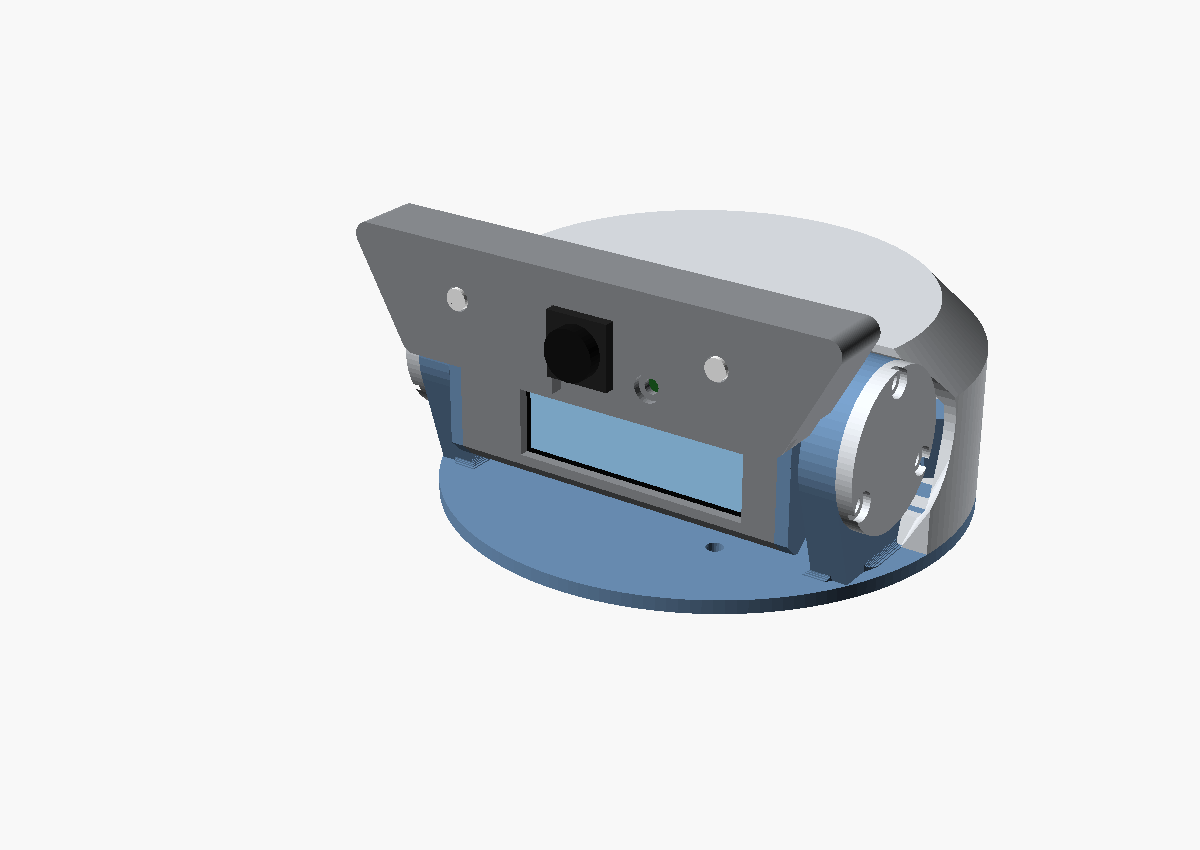
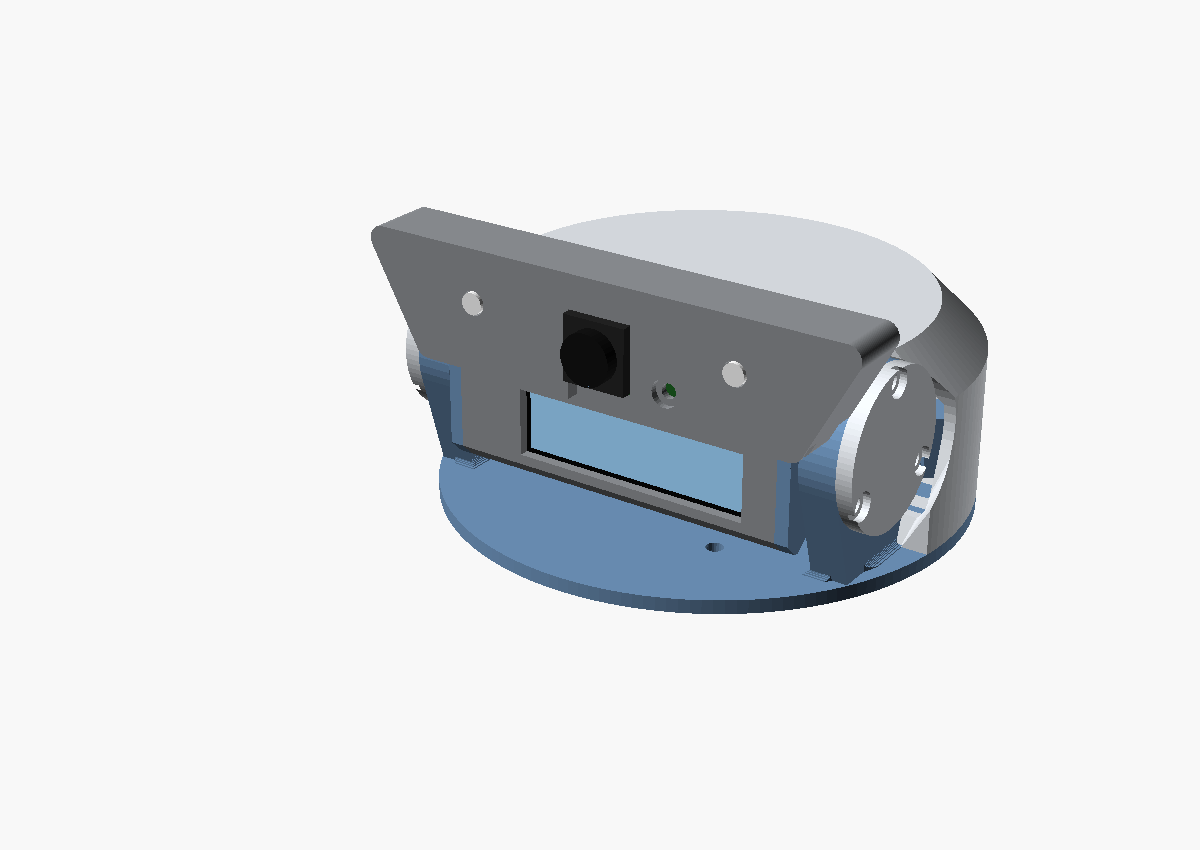
head_v5: printable one-piece head, lens centred on the OLED window; run book updated

diff --git a/hardware/cad/docs/build_photos/README.md b/hardware/cad/docs/build_photos/README.md
@@ -8,7 +8,7 @@ Renders (`NN_render_*.png`) come from `parts/base_v4.scad` (`part = "head_view"`
 
 ### Step 1: camera on the camframe ✅
 
-Part: `base_camframe_v4.3mf`. The webcam PCB (Logitech 210-002028-003) is fitted to the camframe: lens in its square pocket, glass eyes in the D3 and D6 seats,
+Part: `base_camframe_v4.3mf` (superseded by `base_head_v5.3mf`, see step 2). The webcam PCB (Logitech 210-002028-003) is fitted to the camframe: lens in its square pocket, glass eyes in the D3 and D6 seats,
 mic cans in their pockets. One side is held by an M2.5 x 12 bolt through the edge slot, the mic side is hot-glued.
 
 ![Camera board, rear](01_camera_board_rear.jpg)
@@ -21,8 +21,8 @@ mic cans in their pockets. One side is held by an M2.5 x 12 bolt through the edg
 
 ### Step 2: head: insert, OLED, camera ⏭
 
-**Parts (all in `out/`, already printed):** `base_head_v4.3mf` (the head: camera plate, two arms and axle stubs, one piece; there is no separate "plate" part) and `base_camframe_v4.3mf` (with the camera on it, step 1).
-`base_plate_v4.3mf` is only an old fit coupon (plate without arms): do not use it.
+**Part (in `out/`):** `base_head_v5.3mf` — the new one-piece head (camera frame, visor, flared sides, plate, arms and axle stubs). It replaces `base_head_v4.3mf` and `base_camframe_v4.3mf`; do not use those two or `base_plate_v4.3mf` (an old coupon).
+Print it front face down, with tree supports under the lower plate and arms. Not printed yet.
 **Hardware:** the camera on its camframe, the OLED (2.08", GME25664-65), 1 x M2.5 heat-set insert,
 4 x M2 short self-tapping screws, 1 x **M2.5 x 16** screw, 1 x M3 heat-set insert, soldering iron, a zip tie.
 **Nothing more to print for this step.**
@@ -38,8 +38,8 @@ mic cans in their pockets. One side is held by an M2.5 x 12 bolt through the edg
 
 1. **Inserts.** M2.5 insert into the boss on the rear of the plate, pressed in from the boss's rear end. M3 insert into the crank bracket on the left arm, pressed in from its free face. Check each with a screw.
 2. **OLED.** Glass into the pocket from the rear (the front lip keeps it in), board flat on the plate, 4 x M2 into the corner pilot holes. Do not overtighten. Lead the wires down and zip-tie them at the tab on the head's rear, above the board's left end.
-3. **Camera.** Camera on the head's front face, lens cube into its pocket in the camframe, glass eyes in their seats. Put the **M2.5 x 16** screw through the frame tab and the board's edge slot into the head's insert, and tighten until the frame sits firm on the cube's bosses.
-   The frame's rear face stands 6.7 mm off the plate, so the 12 mm bolt in photo 02 would grip only about 2 mm of the insert.
+3. **Camera.** The camera slides up from below into the head, lens cube into the open lens slot, glass eyes pressed into their seats from the front. Put the **M2.5 x 16** screw through the frame, the board's edge slot, into the head's insert; it pins the board (about 0.3 mm of play front to back).
+   The frame's rear face stands 7.0 mm off the plate, so a 12 mm screw would barely reach the insert; use 16 or 18.
 4. **Check.** The camera does not rock, the OLED glass is flush in its window, the USB cable has a free run out of the frame bottom.
 
 Add your photos here: `06_head_oled_fitted.jpg`, `07_head_camera_fitted.jpg`.
